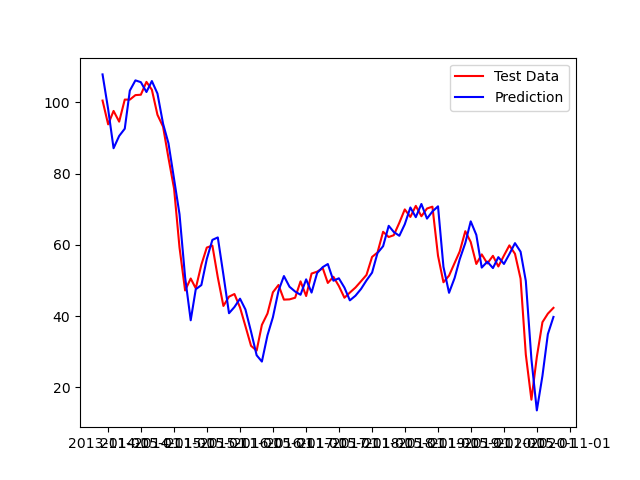
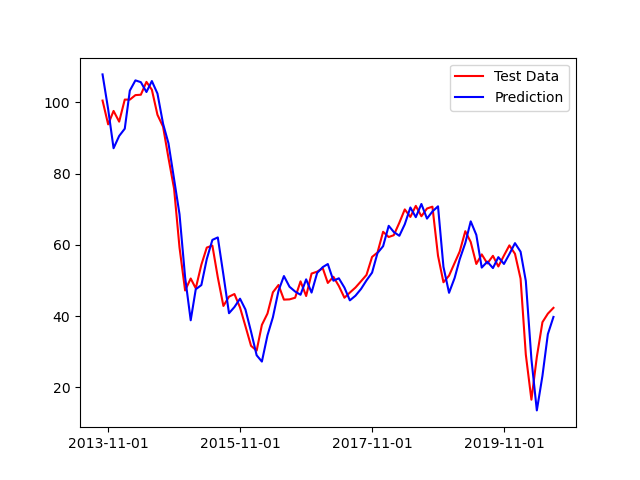
regenerated monthly org data prediction

Changed region(s): [[0.1562, 0.9062, 0.9688, 0.9375]]

diff --git a/models/test_rolling_forecast_new.py b/models/test_rolling_forecast_new.py
@@ -11,8 +11,8 @@ import data
 #mode = "weekly_origin"
 #mode = "weekly_tau1"
 #mode = "weekly_for_monthly"
-#mode = "monthly"
-mode = "weekly_data+"
+mode = "monthly"
+#mode = "weekly_data+"
 #mode = "monthly_data+"
 
 dailyfile = open('./daily/wti.csv', 'r')
@@ -114,8 +114,8 @@ evaluate
 # plot formatters
 formatter = mdates.DateFormatter("%Y-%m-%d") # date format for plotting
 #locater = mdates.DayLocator(interval = 180) # for daily data
-locater = mdates.WeekdayLocator(byweekday = FR, interval = 26 * 4) # weekly
-#locater = mdates.MonthLocator(bymonthday = 1, interval = 6 * 4) # monthly
+#locater = mdates.WeekdayLocator(byweekday = FR, interval = 26 * 4) # weekly
+locater = mdates.MonthLocator(bymonthday = 1, interval = 6 * 4) # monthly
 
 
 GKFN.plot_prediction(teY, teYdate, Yest, num_kernels, epoch, formatter, locater)
